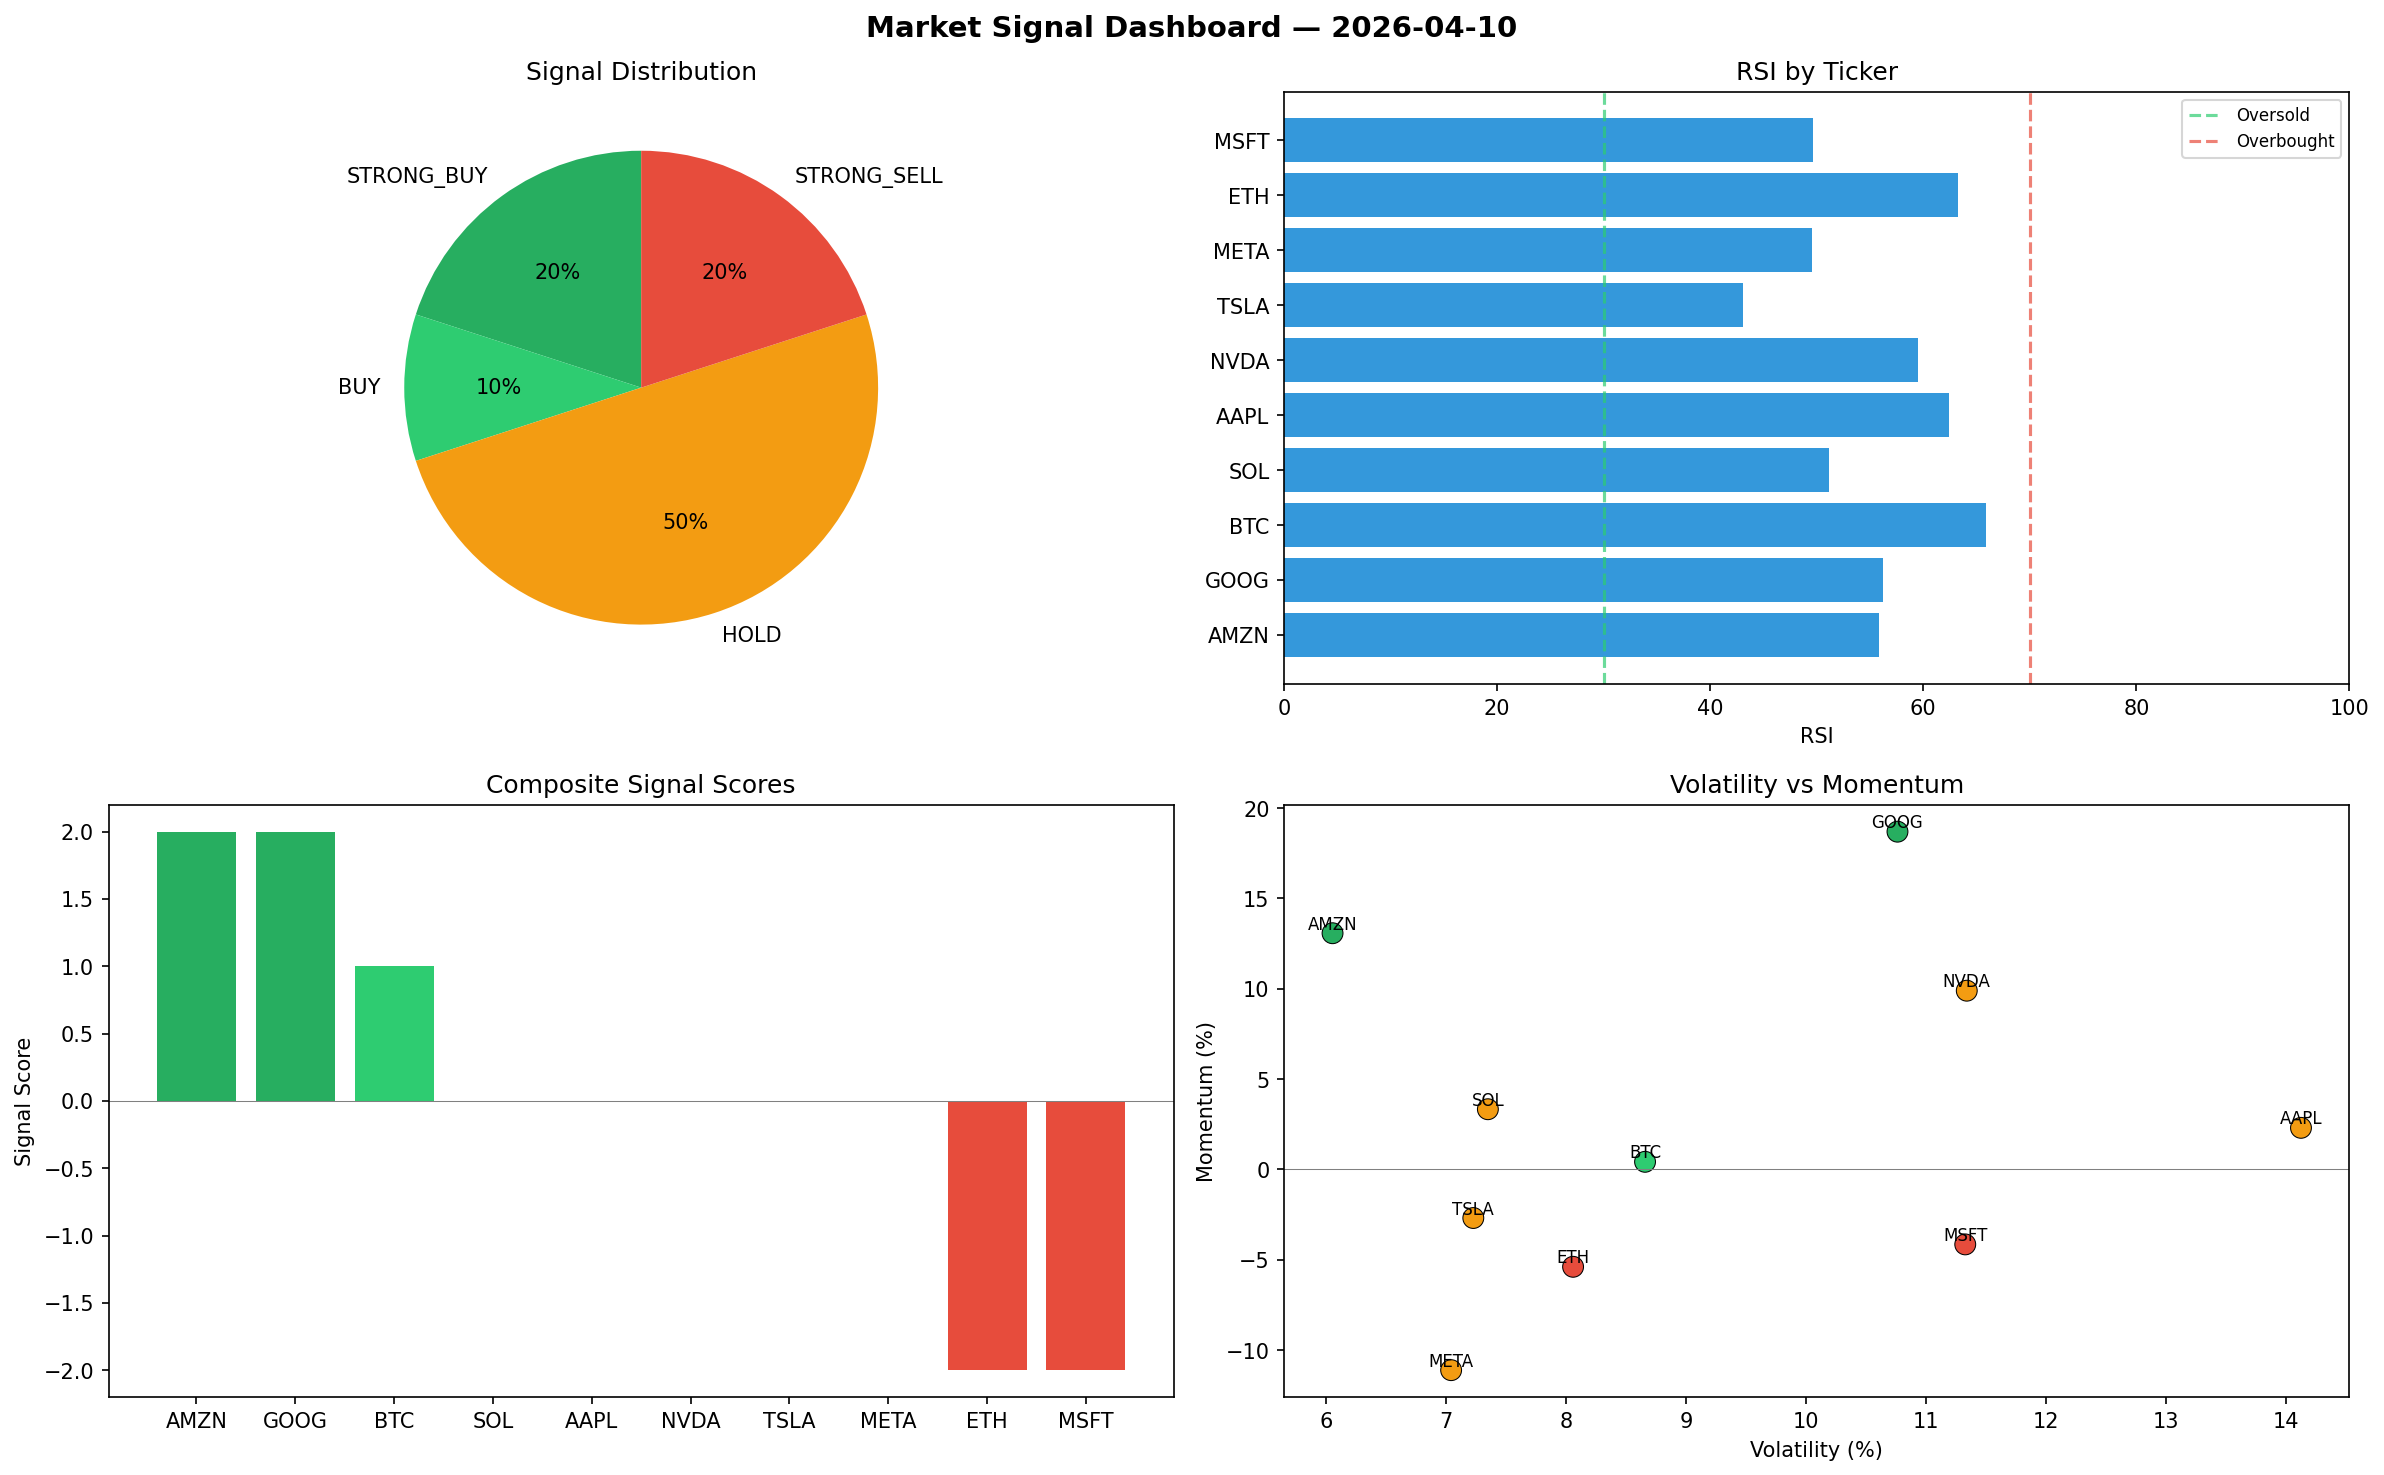
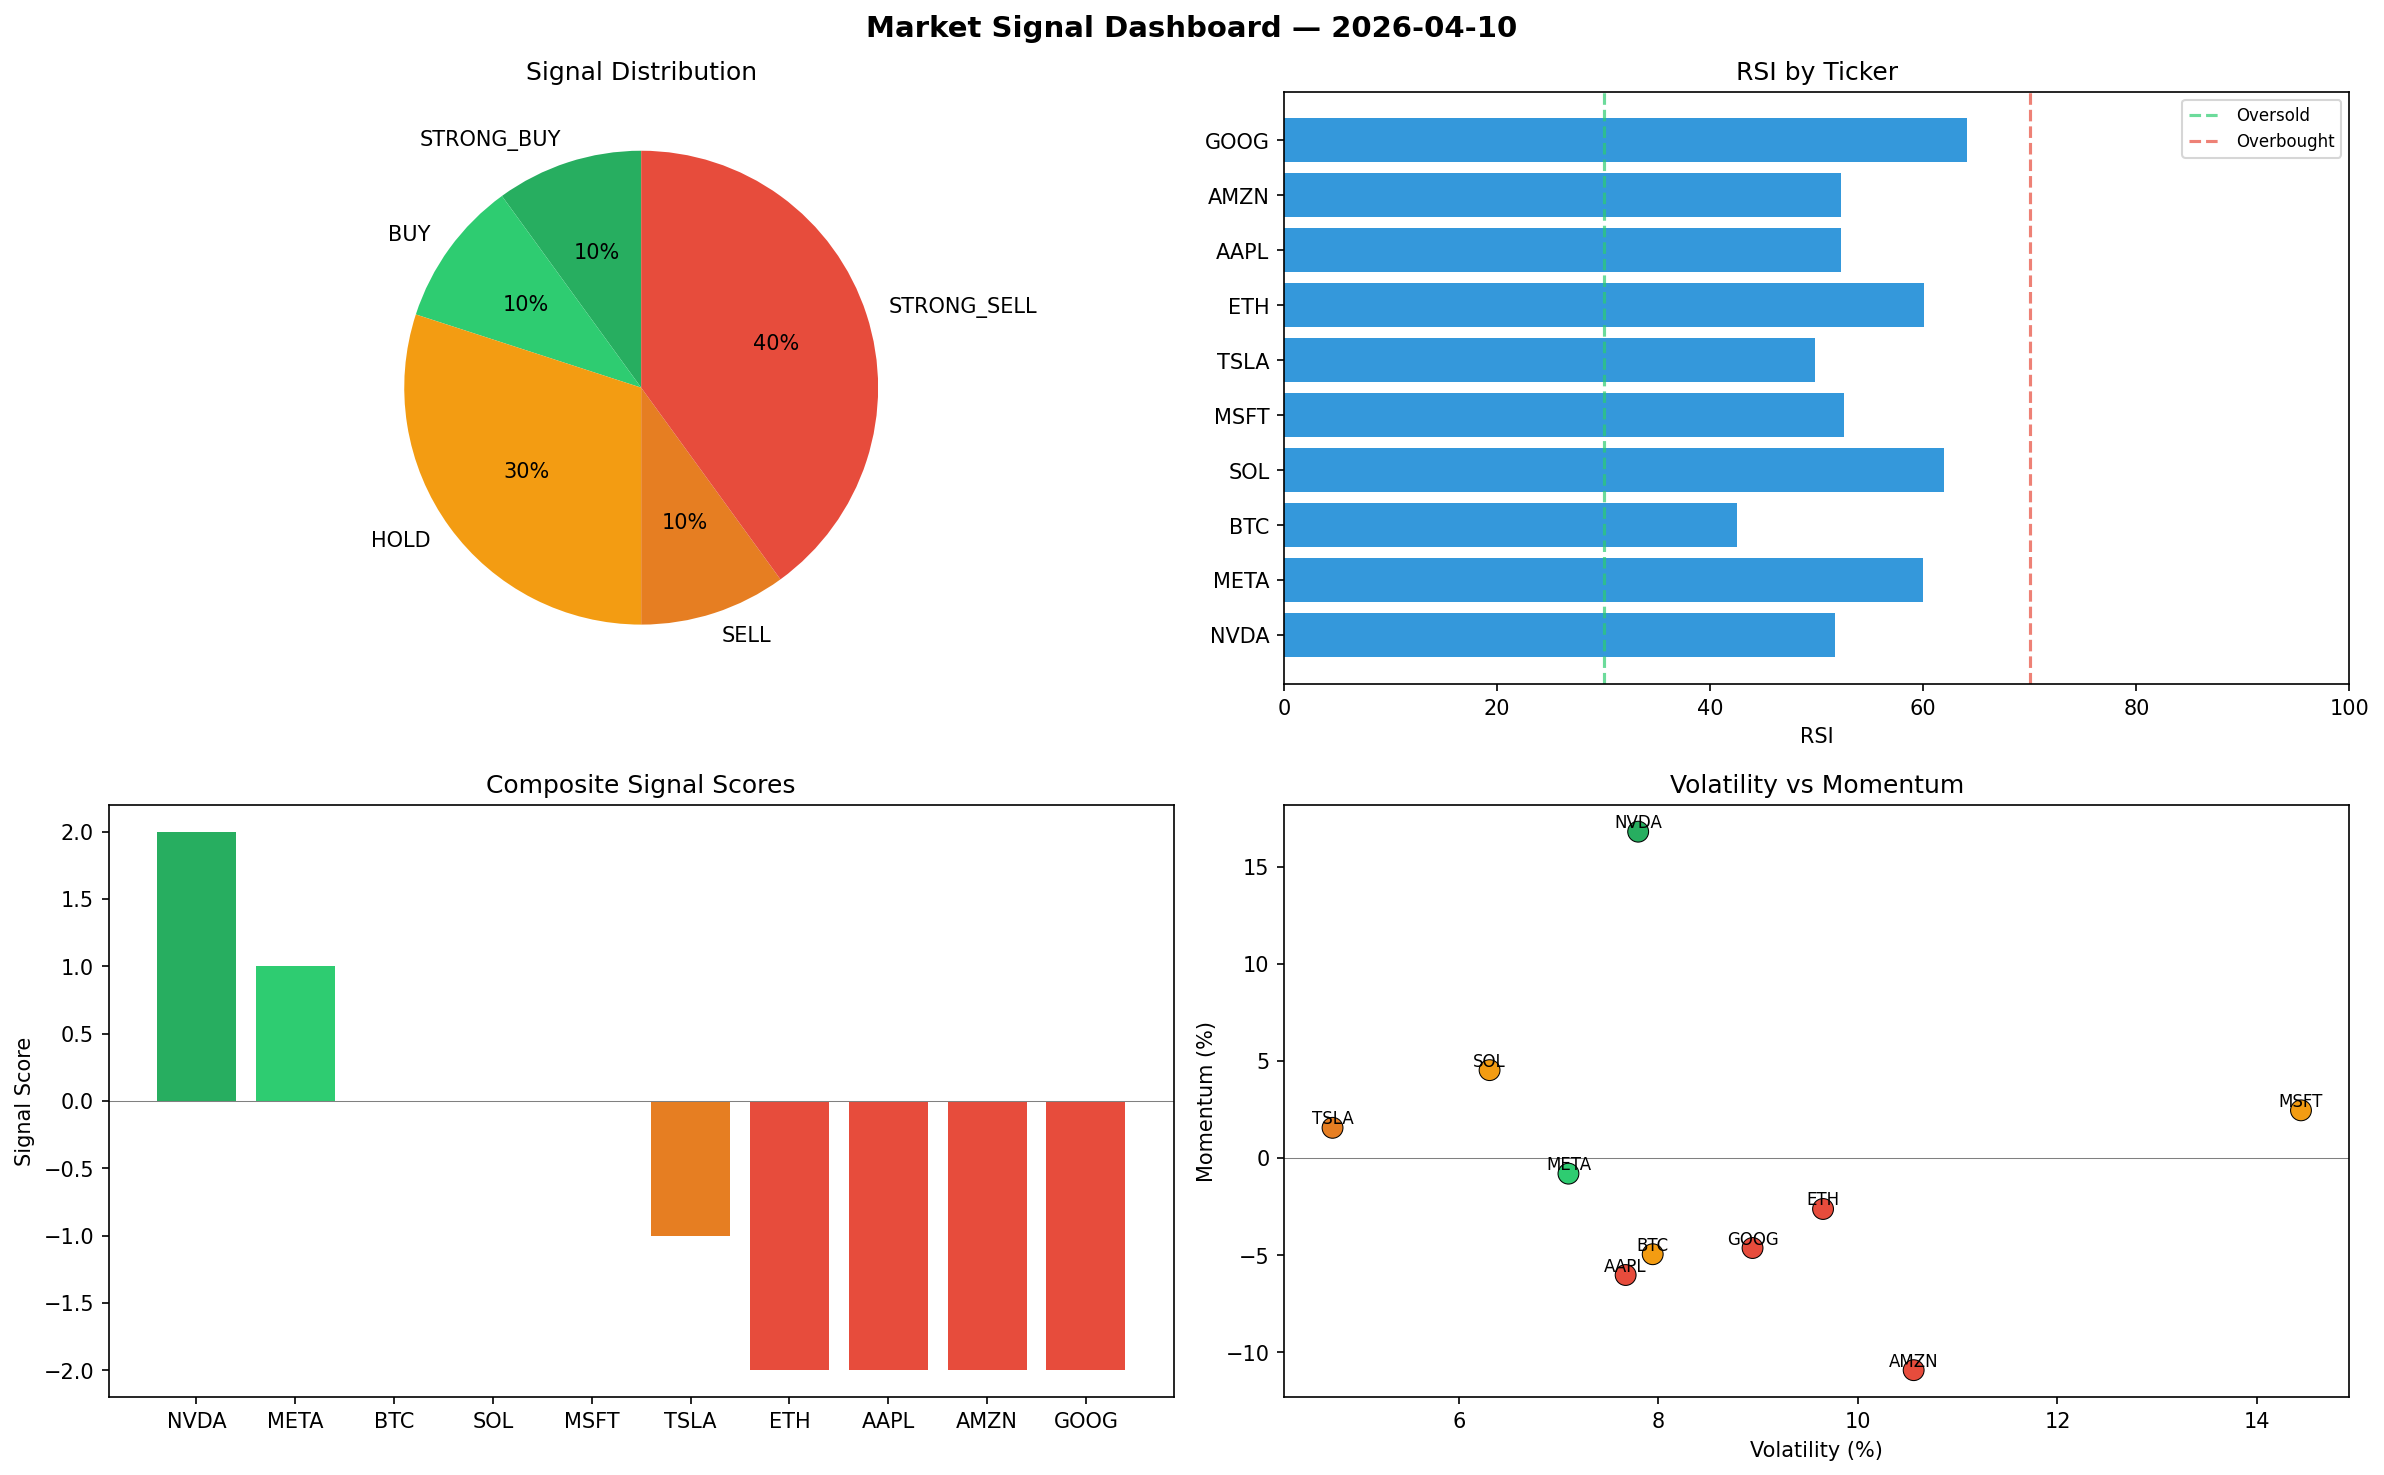
automated-bots: market signals 2026-04-10T09:44

diff --git a/logs/2026-04-10.md b/logs/2026-04-10.md
@@ -1,6 +1,6 @@
 # Market Signal Report — 2026-04-10
 
-**Run ID:** `94f87858aa` | **Buy:** 3 | **Sell:** 2 | **Hold:** 5
+**Run ID:** `77c77bd7c6` | **Buy:** 2 | **Sell:** 5 | **Hold:** 3
 
 ![Dashboard](2026-04-10_dashboard.png)
 
@@ -8,28 +8,28 @@
 
 | Ticker | Price | Signal | Score | RSI | Momentum | Confidence |
 |--------|-------|--------|-------|-----|----------|------------|
-| AMZN | $3640.41 | **STRONG_BUY** | 2 | 55.85 | 0.1307 | 0.5 |
-| GOOG | $4216.37 | **STRONG_BUY** | 2 | 56.21 | 0.1869 | 0.5 |
-| BTC | $4744.86 | **BUY** | 1 | 65.87 | 0.0042 | 0.25 |
-| SOL | $2227.82 | **HOLD** | 0 | 51.11 | 0.0333 | 0.0 |
-| AAPL | $4736.7 | **HOLD** | 0 | 62.42 | 0.023 | 0.0 |
-| NVDA | $4921.68 | **HOLD** | 0 | 59.46 | 0.0989 | 0.0 |
-| TSLA | $4703.55 | **HOLD** | 0 | 43.03 | -0.0269 | 0.0 |
-| META | $199.92 | **HOLD** | 0 | 49.51 | -0.1111 | 0.0 |
-| ETH | $472.13 | **STRONG_SELL** | -2 | 63.28 | -0.0539 | 0.5 |
-| MSFT | $2741.06 | **STRONG_SELL** | -2 | 49.66 | -0.0415 | 0.5 |
+| NVDA | $3339.21 | **STRONG_BUY** | 2 | 51.71 | 0.168 | 0.5 |
+| META | $552.28 | **BUY** | 1 | 60.0 | -0.0081 | 0.25 |
+| BTC | $3570.2 | **HOLD** | 0 | 42.47 | -0.0496 | 0.0 |
+| SOL | $1490.24 | **HOLD** | 0 | 61.98 | 0.0452 | 0.0 |
+| MSFT | $27.55 | **HOLD** | 0 | 52.55 | 0.0245 | 0.0 |
+| TSLA | $3650.65 | **SELL** | -1 | 49.88 | 0.0155 | 0.25 |
+| ETH | $2067.47 | **STRONG_SELL** | -2 | 60.08 | -0.0263 | 0.5 |
+| AAPL | $3219.22 | **STRONG_SELL** | -2 | 52.3 | -0.0603 | 0.5 |
+| AMZN | $4217.82 | **STRONG_SELL** | -2 | 52.23 | -0.1093 | 0.5 |
+| GOOG | $1113.01 | **STRONG_SELL** | -2 | 64.11 | -0.0464 | 0.5 |
 
 ## Delta vs Yesterday
 
 | Ticker | Today | Yesterday | Price Change | Signal Changed |
 |--------|-------|-----------|-------------|----------------|
-| AMZN | STRONG_BUY | HOLD | 📉 -8.77% | ⚠ YES |
-| GOOG | STRONG_BUY | STRONG_BUY | 📈 99.75% | — |
-| BTC | BUY | STRONG_BUY | 📉 -7.81% | ⚠ YES |
-| SOL | HOLD | HOLD | 📉 -9.96% | — |
-| AAPL | HOLD | HOLD | 📈 80.37% | — |
-| NVDA | HOLD | STRONG_BUY | 📈 308.57% | ⚠ YES |
-| TSLA | HOLD | STRONG_SELL | 📈 239.63% | ⚠ YES |
-| META | HOLD | SELL | 📉 -89.91% | ⚠ YES |
-| ETH | STRONG_SELL | BUY | 📉 -86.49% | ⚠ YES |
-| MSFT | STRONG_SELL | STRONG_SELL | 📉 -38.81% | — |
+| NVDA | STRONG_BUY | STRONG_BUY | 📈 177.2% | — |
+| META | BUY | SELL | 📉 -72.13% | ⚠ YES |
+| BTC | HOLD | STRONG_BUY | 📉 -30.63% | ⚠ YES |
+| SOL | HOLD | HOLD | 📉 -39.77% | — |
+| MSFT | HOLD | STRONG_SELL | 📉 -99.38% | ⚠ YES |
+| TSLA | SELL | STRONG_SELL | 📈 163.6% | ⚠ YES |
+| ETH | STRONG_SELL | BUY | 📉 -40.83% | ⚠ YES |
+| AAPL | STRONG_SELL | HOLD | 📈 22.59% | ⚠ YES |
+| AMZN | STRONG_SELL | HOLD | 📈 5.7% | ⚠ YES |
+| GOOG | STRONG_SELL | STRONG_BUY | 📉 -47.27% | ⚠ YES |
